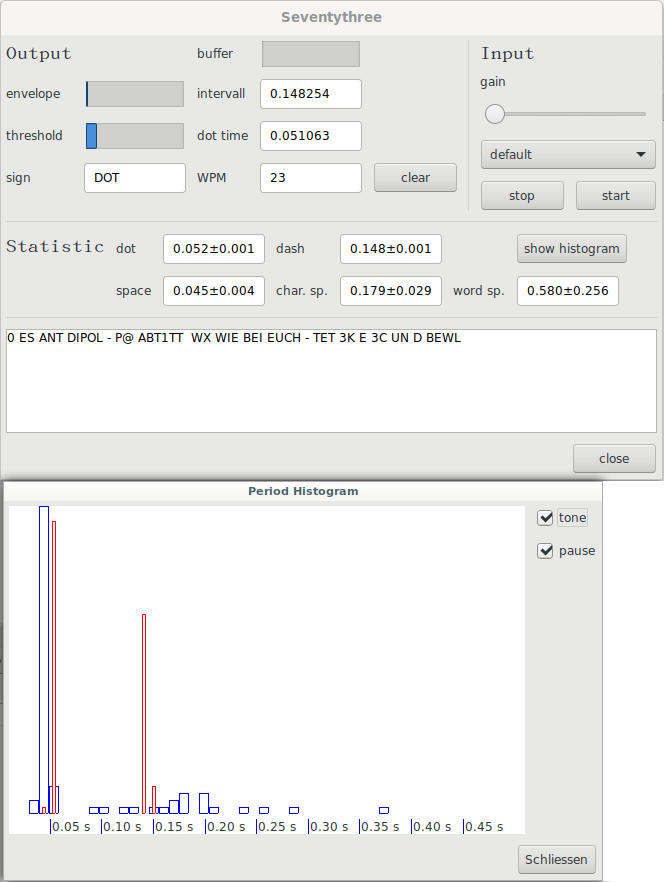
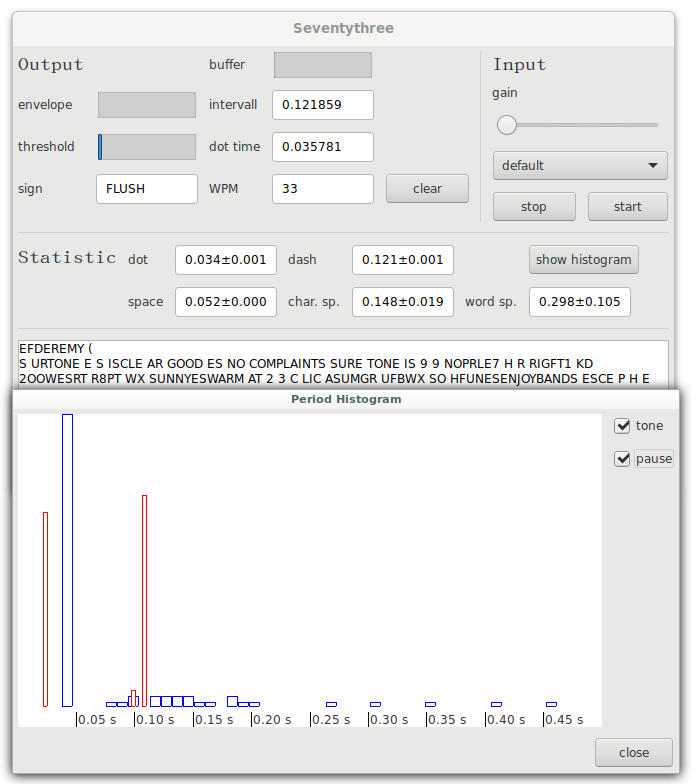
add bugfix

Changed region(s): [[0.0, 0.0, 1.0, 1.0]]

diff --git a/Seventythree/HistogramPanel.cpp b/Seventythree/HistogramPanel.cpp
@@ -60,6 +60,7 @@ HistogramPanel::~HistogramPanel()
  */	
 void HistogramPanel::FreeBuffer()
 {
+	mBins = 0;
 	if(mToneCounts != nullptr)
 		delete[] mToneCounts;
 	if(mPauseCounts != nullptr)
@@ -105,14 +106,17 @@ void HistogramPanel::Update()
 			ResizeBuffer(bins);
 		
 		mMaxPeriod = Global::mMD.GetMaxPeriod();
-		for(int i =1;i<mBins;i++)
-		{ 
-			mToneCounts[i] = Global::mMD.GetHistToneBinCount(i);
-			mPauseCounts[i] = Global::mMD.GetHistPauseBinCount(i);
-			if(mToneCounts[i]>mMaxCount)
-				mMaxCount = mToneCounts[i];
-			if(mPauseCounts[i]>mMaxCount)
-				mMaxCount = mPauseCounts[i];
+		if(mToneCounts!= nullptr and mPauseCounts!= nullptr)
+		{
+			for(int i =1;i<mBins ;i++)
+			{ 
+				mToneCounts[i] = Global::mMD.GetHistToneBinCount(i);
+				mPauseCounts[i] = Global::mMD.GetHistPauseBinCount(i);
+				if(mToneCounts[i]>mMaxCount)
+					mMaxCount = mToneCounts[i];
+				if(mPauseCounts[i]>mMaxCount)
+					mMaxCount = mPauseCounts[i];
+			}
 		}
 		Global::mMDMutex.unlock();
 	}
@@ -148,16 +152,19 @@ void HistogramPanel::Render(wxDC& dc)
  */
 void HistogramPanel::DrawBins(wxDC& dc,wxRect &rect,const int width, const int bottom )
 {
-	for(int i =1;i<mBins;i++)
+	if(mToneCounts!=nullptr and mPauseCounts!=nullptr)
 	{
-		const int x1 	= (i-1)*width+rect.GetX();
-		const int dyt 	= (mToneCounts[i]/static_cast<double>(mMaxCount))*(rect.GetHeight()-20);
-		const int dyp 	= (mPauseCounts[i]/static_cast<double>(mMaxCount))*(rect.GetHeight()-20);
-		
-		dc.SetPen(*wxBLUE_PEN);
-		dc.DrawRectangle(x1,bottom-dyp,width,dyp);
-		dc.SetPen(*wxRED_PEN);
-		dc.DrawRectangle(x1+3,bottom-dyt,width-6,dyt);
+		for(int i =1;i<mBins;i++)
+		{
+			const int x1 	= (i-1)*width+rect.GetX();
+			const int dyt 	= (mToneCounts[i]/static_cast<double>(mMaxCount))*(rect.GetHeight()-20);
+			const int dyp 	= (mPauseCounts[i]/static_cast<double>(mMaxCount))*(rect.GetHeight()-20);
+				
+			dc.SetPen(*wxBLUE_PEN);
+			dc.DrawRectangle(x1,bottom-dyp,width,dyp);
+			dc.SetPen(*wxRED_PEN);
+			dc.DrawRectangle(x1+3,bottom-dyt,width-6,dyt);
+		}
 	}
 }
 

diff --git a/Seventythree/MorseGUI.cpp b/Seventythree/MorseGUI.cpp
@@ -314,7 +314,7 @@ Histogram::Histogram( wxWindow* parent, wxWindowID id, const wxString& title, co
 
 	bSizer12->Add( 0, 0, 1, wxEXPAND, 5 );
 
-	m_toggleBtnClose = new wxToggleButton( this, wxID_ANY, _("Schliessen"), wxDefaultPosition, wxDefaultSize, 0 );
+	m_toggleBtnClose = new wxToggleButton( this, wxID_ANY, _("close"), wxDefaultPosition, wxDefaultSize, 0 );
 	bSizer12->Add( m_toggleBtnClose, 0, wxALL, 5 );
 
 
